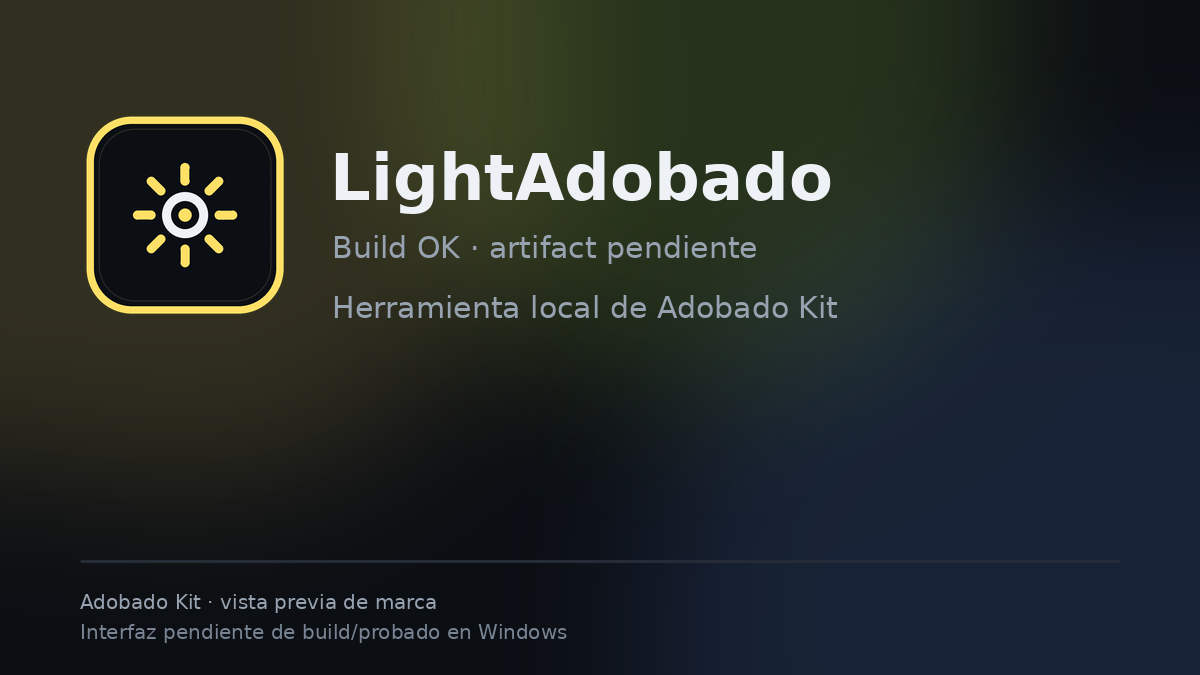
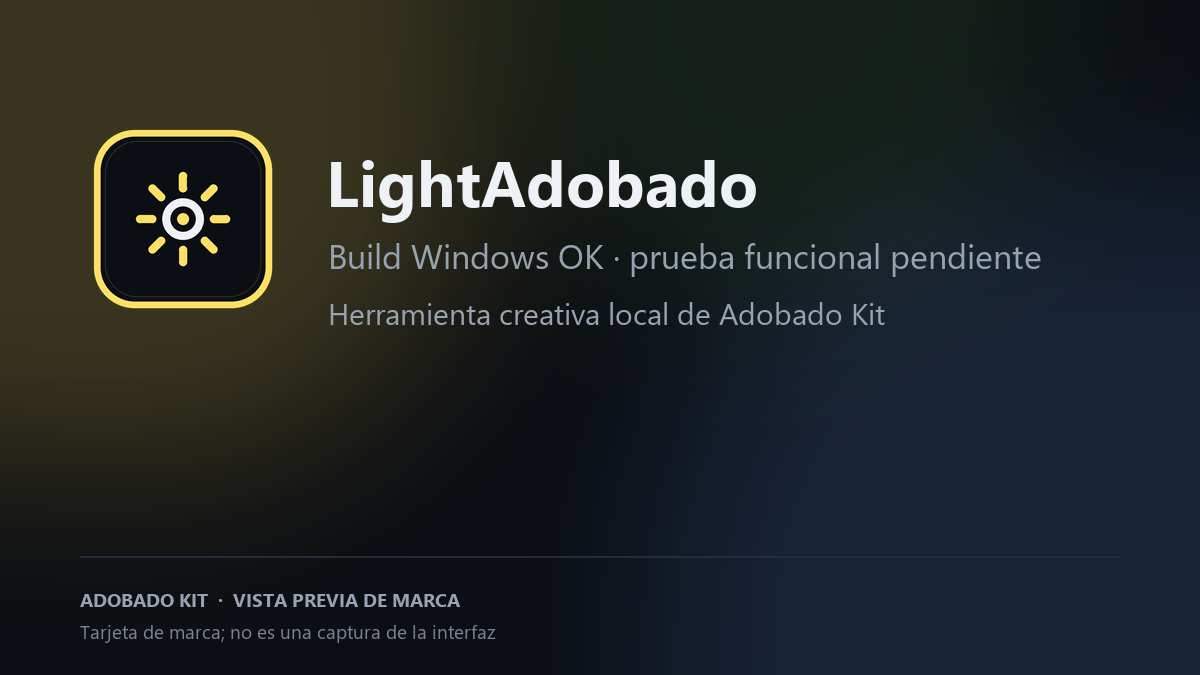
docs: update status and brand assets

diff --git a/README.md b/README.md
@@ -6,21 +6,27 @@
 
 [![License](https://img.shields.io/badge/license-MIT%20OR%20Apache--2.0-6cb6ff)](LICENSE-APACHE)
 [![Rust](https://img.shields.io/badge/Rust-1.95%2B-ff7a59)](Cargo.toml)
-[![Status](https://img.shields.io/badge/status-early%20alpha-d69e2e)](#estado)
-[![Stars](https://img.shields.io/github/stars/smouj/LightAdobado?style=flat&color=FF5C5C)](https://github.com/smouj/LightAdobado/stargazers)
+[![Windows build](https://github.com/smouj/LightAdobado/actions/workflows/windows-build.yml/badge.svg?branch=main)](https://github.com/smouj/LightAdobado/actions/workflows/windows-build.yml)
+[![Estado](https://img.shields.io/badge/status-instalaci%C3%B3n%20pendiente-ff7a59)](#estado)
+[![Estrellas](https://img.shields.io/github/stars/smouj/LightAdobado?style=flat&color=B8F34A)](https://github.com/smouj/LightAdobado/stargazers)
 [![Adobado Kit](https://img.shields.io/badge/Adobado%20Kit-hub-b8f34a)](https://github.com/smouj/Adobado_Kit)
 
-> **Alpha temprana.** Codigo importado y rebrandeado desde LightCraft. Build de Windows y prueba de edicion pendientes. No se presenta como app disponible ni como sustituto profesional.
+> **Build de Windows correcta (20/10/2026).** Falta instalar e iniciar la app manualmente. La prueba de abrir, modificar y exportar un archivo real también está pendiente. La imagen siguiente es una tarjeta de marca, no una captura de la interfaz.
 >
 > Proyecto independiente. No afiliado a ArtCraft ni a Adobe.
 
-![LightAdobado](docs/preview.png)
+![LightAdobado — tarjeta de marca; interfaz pendiente](docs/preview.png)
+
+<sub>Tarjeta de marca; no es una captura de la interfaz.</sub>
 
 ## Estado
 
-- Codigo fuente: importado desde lightcraft en el commit d999e382bafbb5d5c54482fdb1d11f6a63bfdf69.
-- Rebranding visible: nombre, enlaces, README, avisos y documentacion.
-- Pendiente: compilar en Windows, probar abrir/editar/exportar y publicar release.
+- **Build de Windows:** correcto en GitHub Actions; consulta el [workflow actual](https://github.com/smouj/LightAdobado/actions/workflows/windows-build.yml).
+- **Prueba manual:** instalación e inicio pendientes.
+- **Flujo funcional:** abrir, modificar y exportar un archivo real sigue pendiente.
+- **Disponibilidad:** alpha; todavía no se declara lista para uso general.
+- **Release pública:** todavía no existe. No se publica un binario hasta completar las pruebas.
+- **Commit de origen:** d999e382bafbb5d5c54482fdb1d11f6a63bfdf69.
 
 ## Build
 

diff --git a/docs/ADOBADO.md b/docs/ADOBADO.md
@@ -15,12 +15,13 @@
 - Se retiran los logos y assets de marca de ArtCraft incluidos en docs/brand.
 - No se han cambiado el motor, los formatos ni las funciones de edicion.
 
-## Pendiente
+## Estado de validación — 20/10/2026
 
-- Rebranding de iconos de aplicacion.
-- Build de Windows y prueba de abrir, editar y exportar.
-- Release solo cuando exista un binario probado.
-
+- **Build de Windows:** correcto en GitHub Actions ([workflow](https://github.com/smouj/LightAdobado/actions/workflows/windows-build.yml)).
+- **Prueba manual:** instalación e inicio pendientes.
+- **Uso con archivos reales:** abrir, modificar y exportar sigue pendiente.
+- **Distribución:** todavía no hay una release pública; no se publicará un binario sin completar las pruebas.
+- **Origen:** d999e382bafbb5d5c54482fdb1d11f6a63bfdf69.
 ## Marcas
 
 ArtCraft, LightCraft y sus logos son marcas del ArtCraft Team y no estan cubiertos por la licencia de codigo. Adobe y sus productos son marcas de Adobe Inc. Este proyecto no esta afiliado a Adobe ni a ArtCraft.

diff --git a/CHANGELOG.md b/CHANGELOG.md
@@ -1,5 +1,13 @@
 # Changelog - LightAdobado
 
+## [Unreleased]
+
+### Documentado
+- Estado de compilación y validación manual de Windows actualizado.
+- Captura o tarjeta de marca identificada correctamente; se aclara que la prueba con archivos reales sigue pendiente.
+- Se confirma que todavía no existe una release pública.
+
+
 ## 0.1.0-alpha.1 - 2026-10-20
 
 ### Anadido
